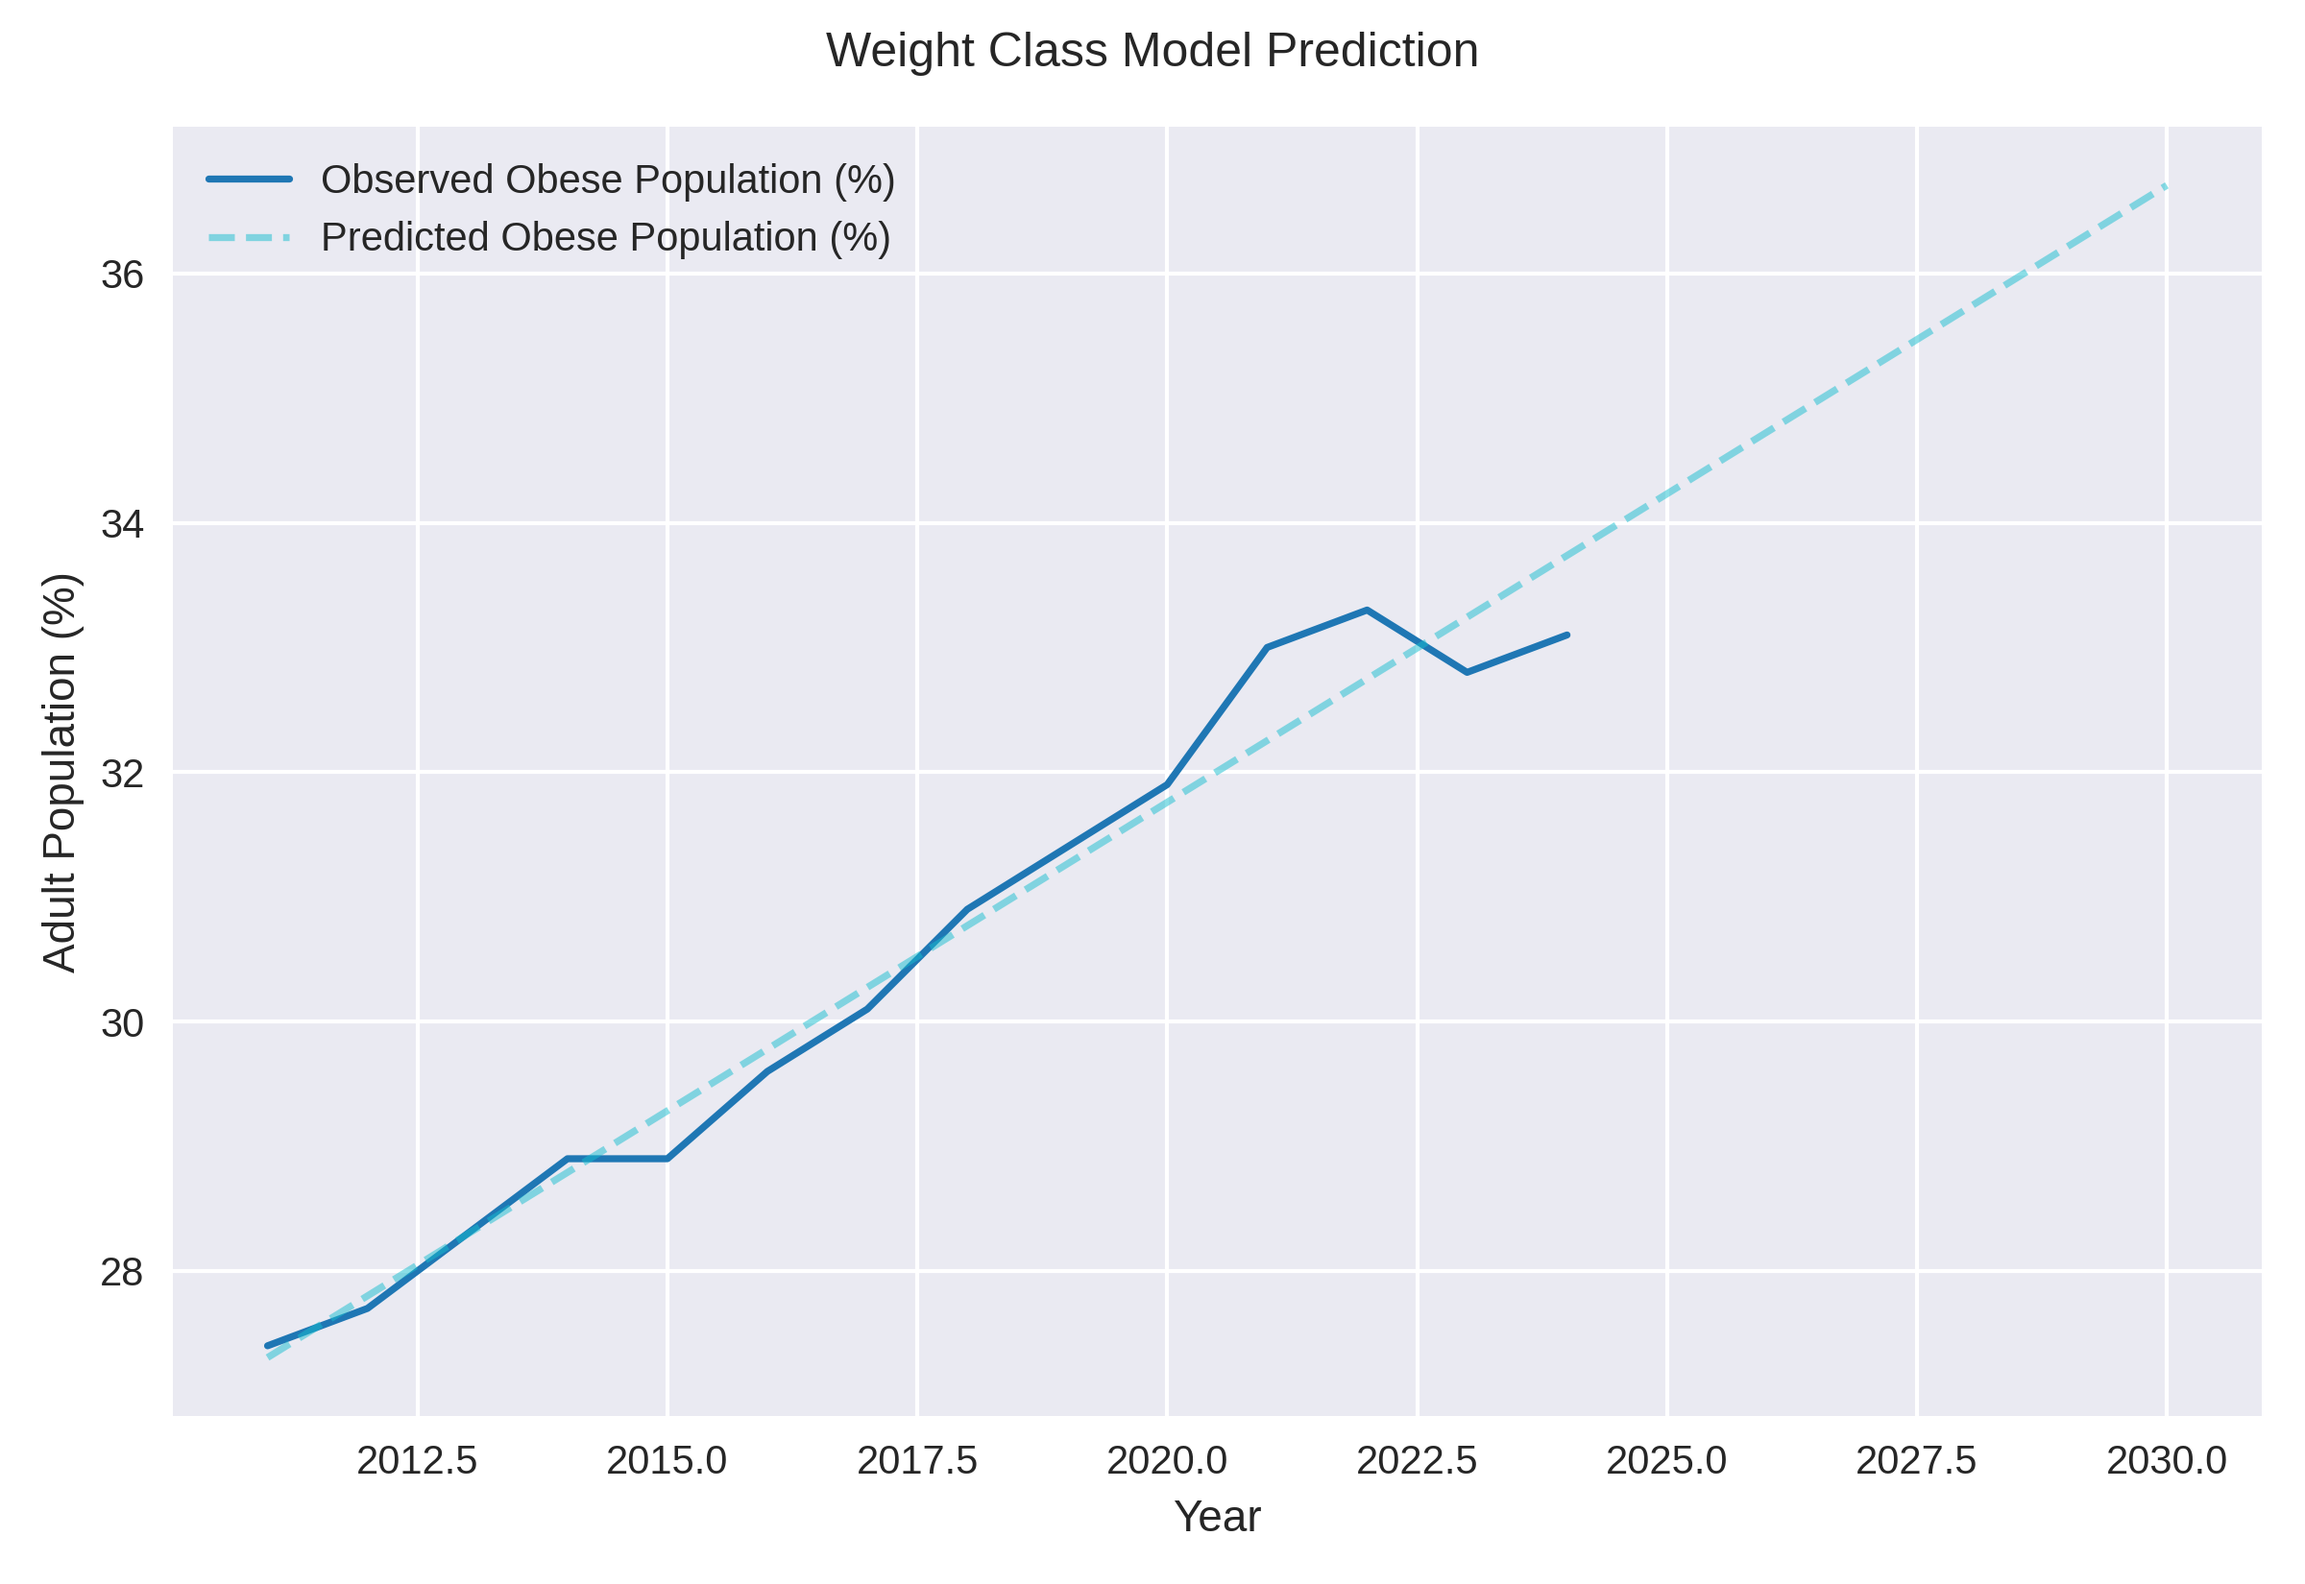
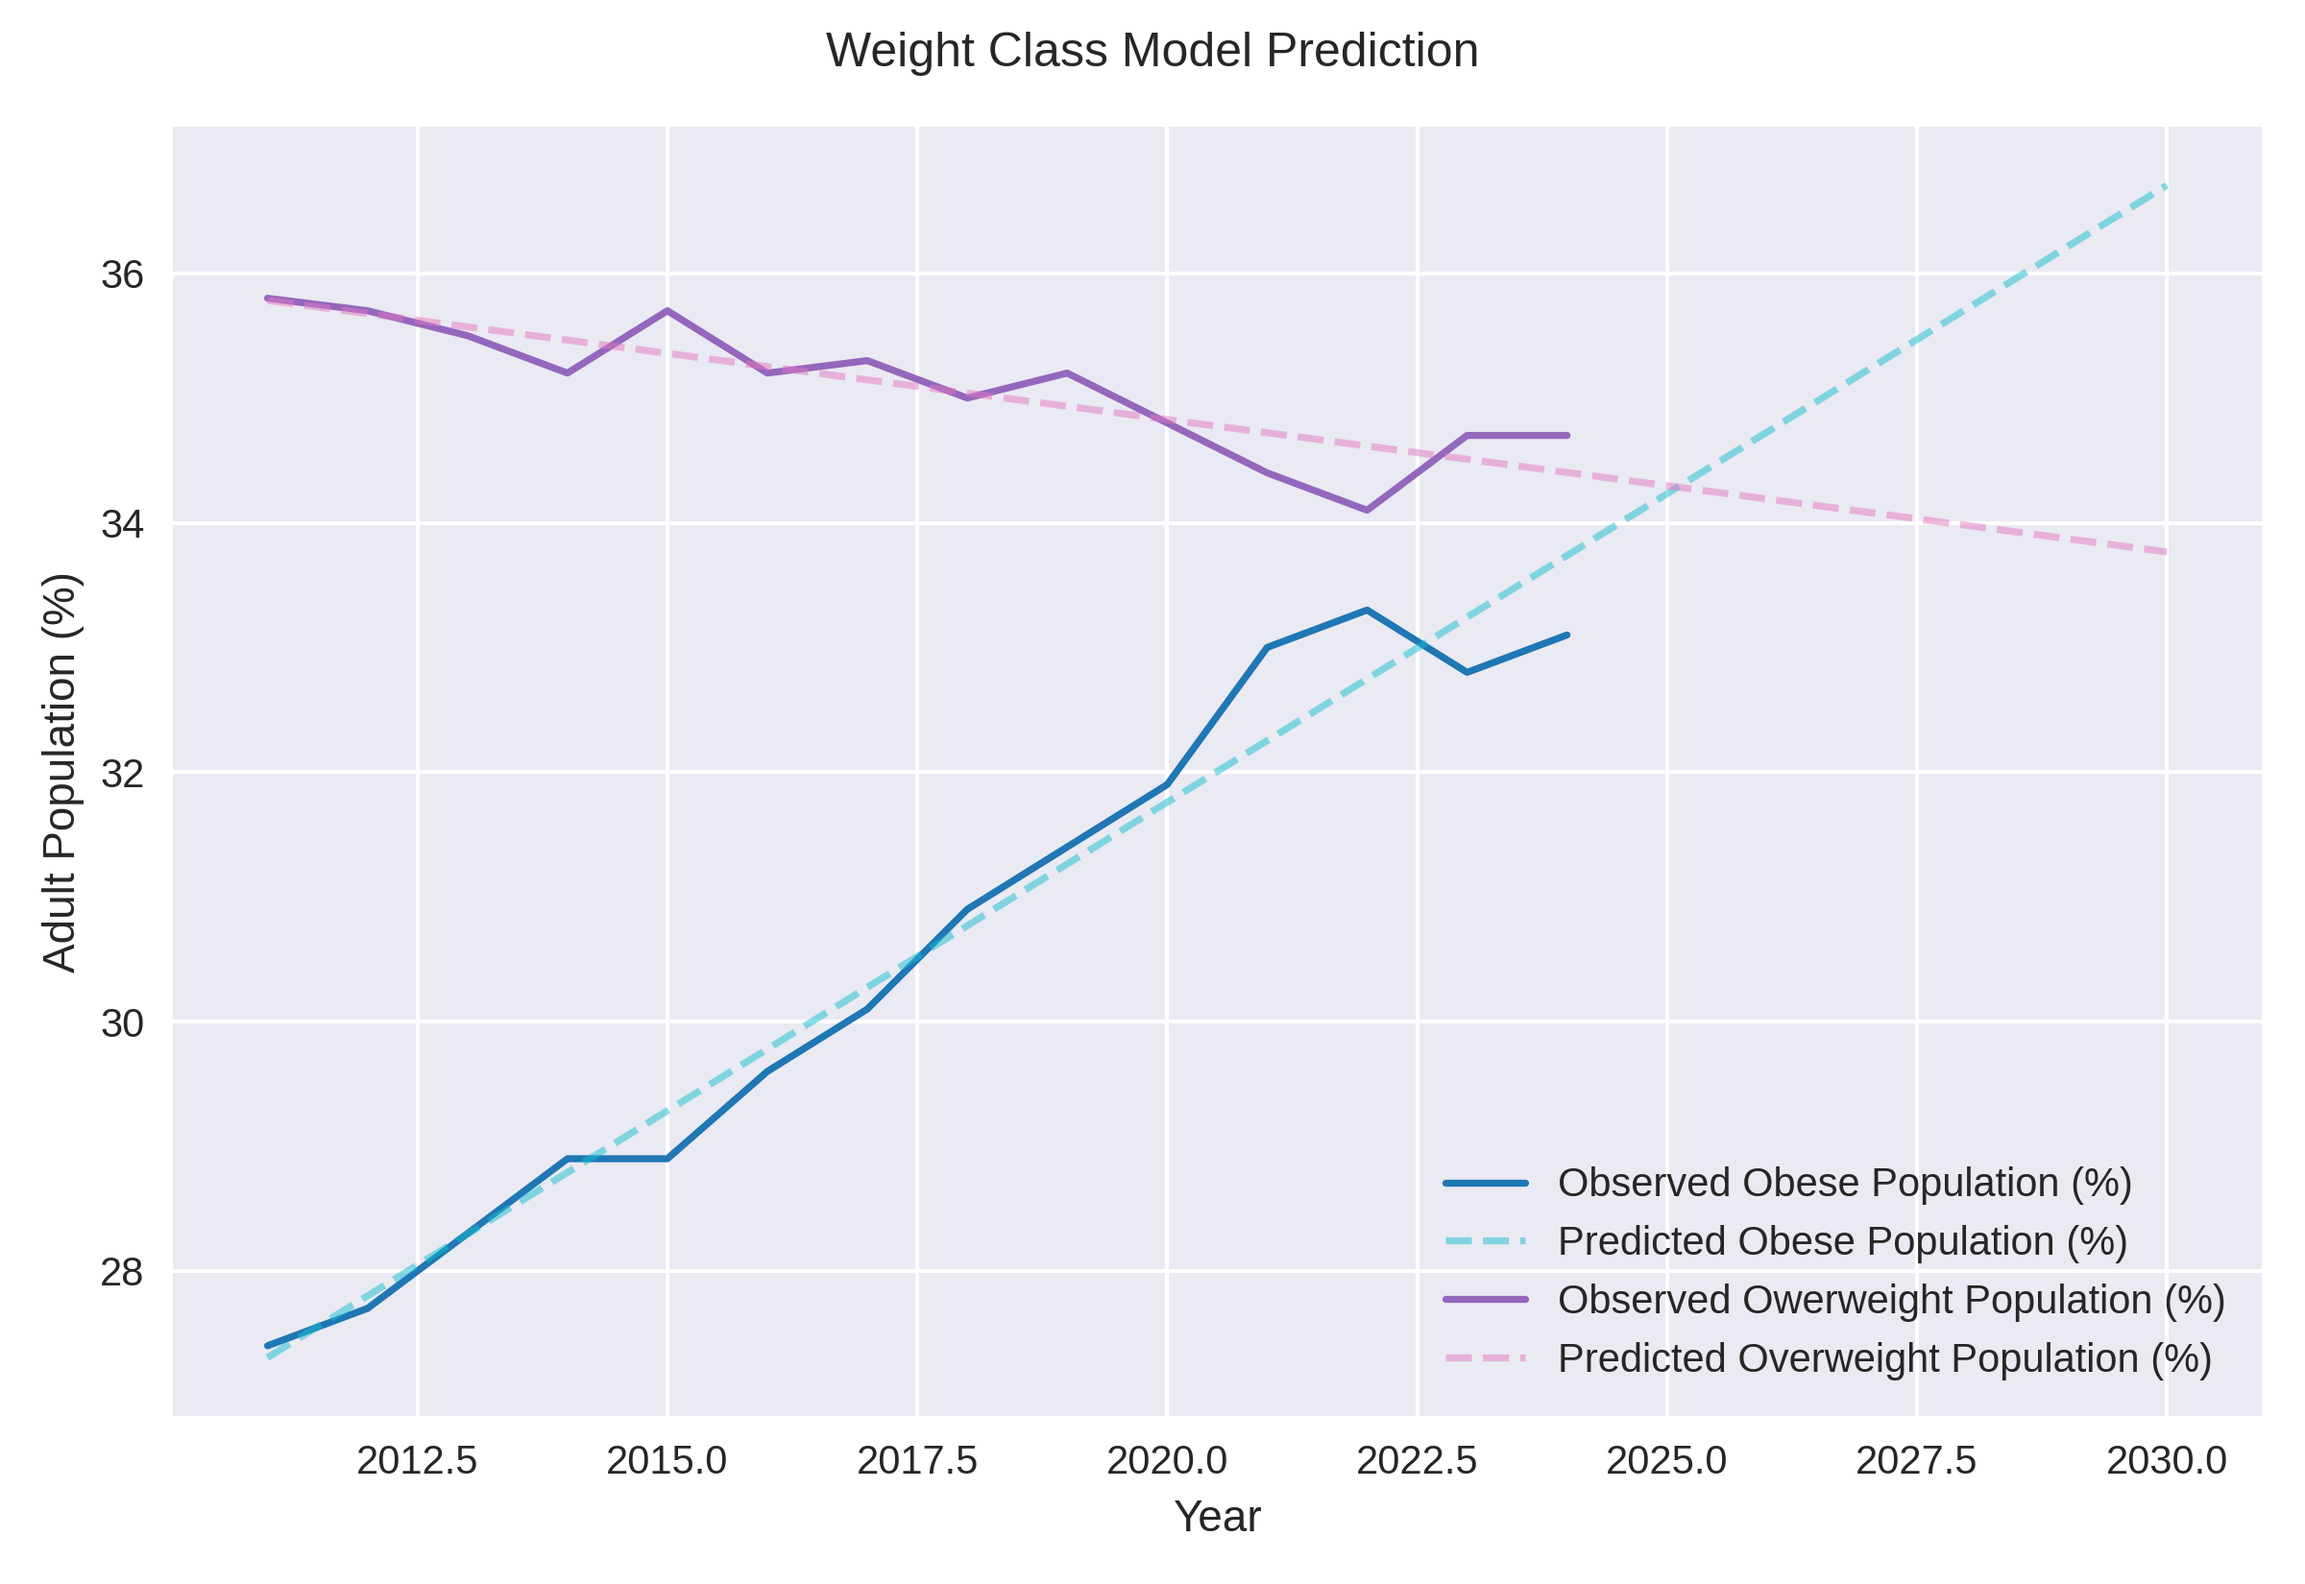
feat: include overweight in visualisation 5

diff --git a/src/visualisations/vis5.py b/src/visualisations/vis5.py
@@ -17,17 +17,19 @@ def visualisation5(df: pd.DataFrame):
 
     df2.dropna(inplace=True)
 
-    x = df2['YEAR'].to_frame()
-    y = df2[QCol.OBESITY_18_PLUS.value].to_frame()
+    x_years = df2['YEAR'].to_frame()
 
-    model = LinearRegression()
-    model.fit(x, y)
+    # Predict Obesity
+    y_obesity = df2[QCol.OBESITY_18_PLUS.value].to_frame()
+
+    obesity_model = LinearRegression()
+    obesity_model.fit(x_years, y_obesity)
 
     future_years = pd.DataFrame({
-        "YEAR": range(df['YEAR'].min(), df['YEAR'].max() + 7)
+        "YEAR": range(df2['YEAR'].min(), df2['YEAR'].max() + 7)
     })
 
-    future_years["PREDICTED_OBESITY"] = model.predict(future_years)
+    future_years["PREDICTED_OBESITY"] = obesity_model.predict(future_years)
 
     prediction = pd.concat([df2, future_years], ignore_index=True)
 
@@ -46,6 +48,34 @@ def visualisation5(df: pd.DataFrame):
         alpha=0.5,
         ax=ax,
         label="Predicted Obese Population (%)"
+    )
+
+    # Predict Overweight
+    y_overweight = df2[QCol.OVERWEIGHT_18_PLUS.value].to_frame()
+
+    overweight_model = LinearRegression()
+    overweight_model.fit(x_years, y_overweight)
+
+    future_years["PREDICTED_OVERWEIGHT"] = overweight_model.predict(future_years['YEAR'].to_frame())
+
+    prediction = pd.concat([prediction, future_years], ignore_index=True)
+
+    prediction.plot(
+        x='YEAR',
+        y=QCol.OVERWEIGHT_18_PLUS.value,
+        color="tab:purple",
+        label="Observed Owerweight Population (%)",
+        ax=ax
+    )
+
+    prediction.plot(
+        x='YEAR',
+        y='PREDICTED_OVERWEIGHT',
+        color="tab:pink",
+        linestyle='--',
+        alpha=0.5,
+        ax=ax,
+        label="Predicted Overweight Population (%)"
     )
 
     ax.set_xlabel("Year")
